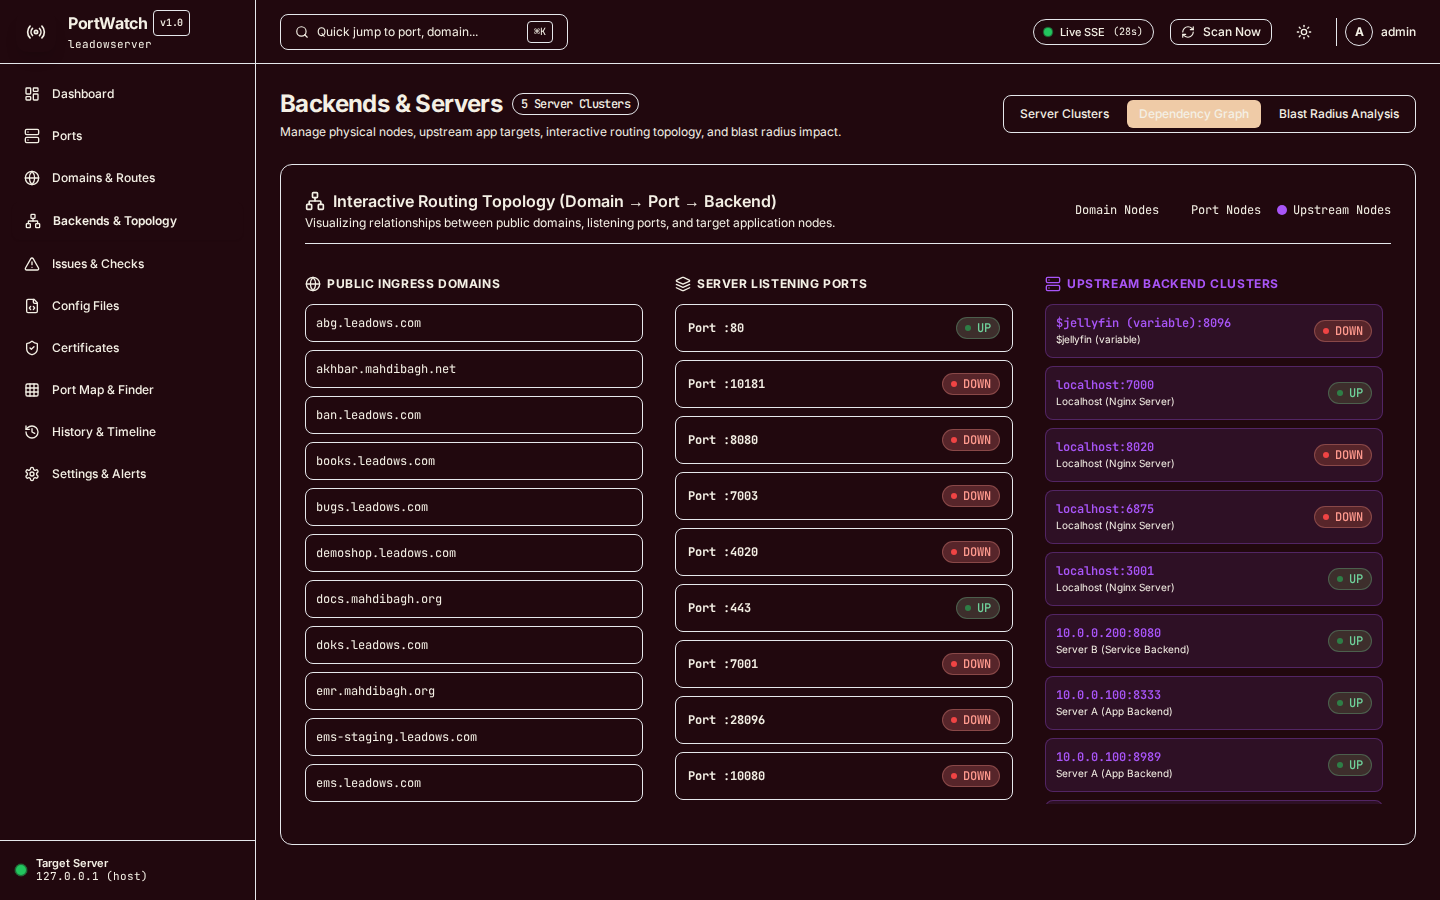
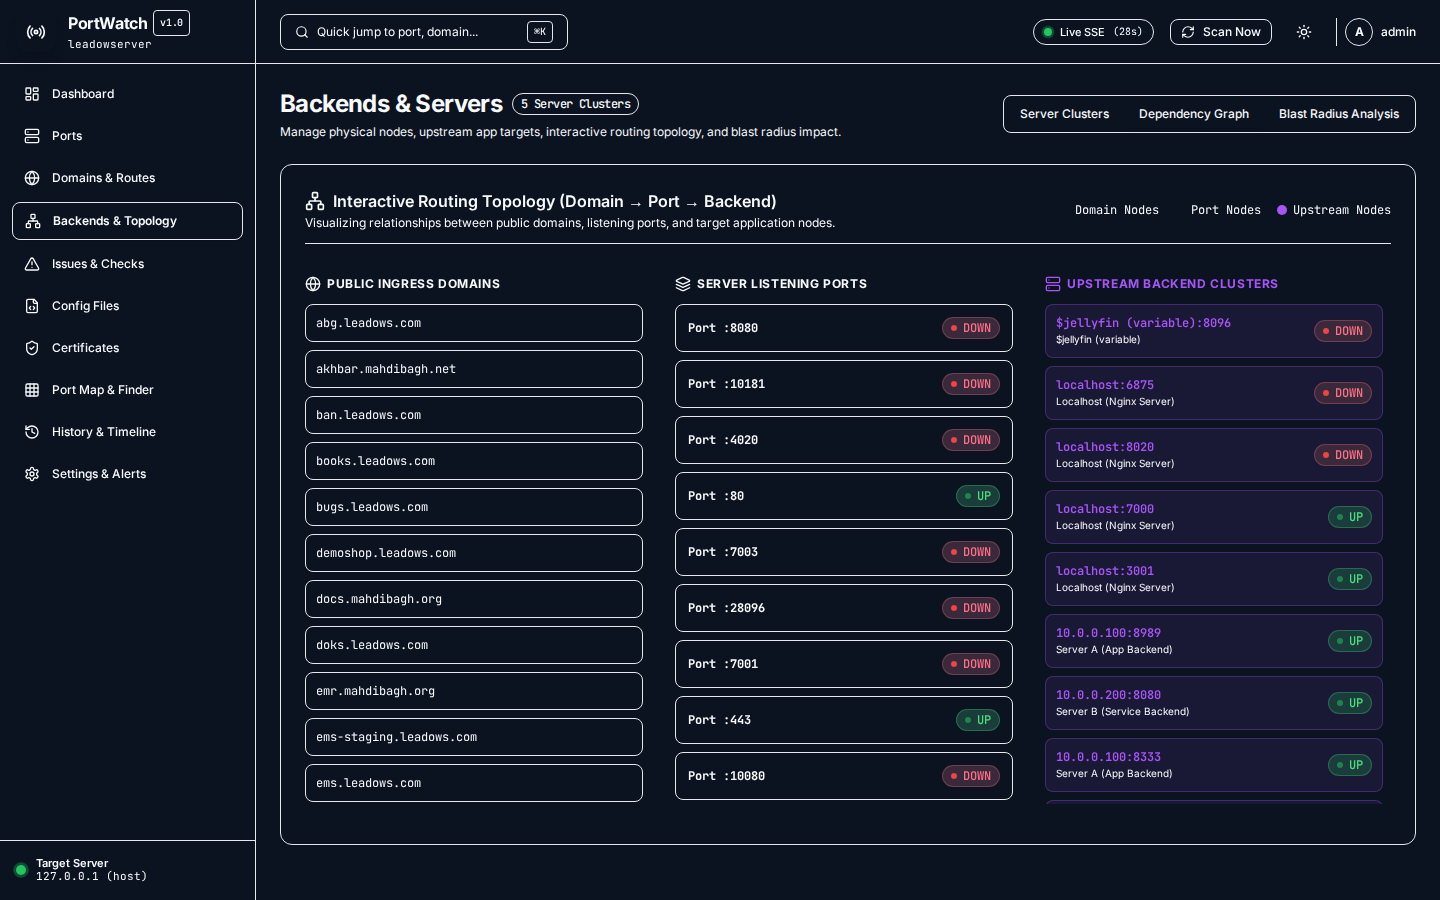
style(dark): restore original sleek dark theme palette with indigo and cyan accents

diff --git a/apps/web/src/index.css b/apps/web/src/index.css
@@ -51,46 +51,46 @@
 
   .dark {
     color-scheme: dark;
-    --bg: #1C1912;
-    --surface: #26221A;
-    --surface-2: #302B21;
-    --border: #5A5242;
-    --border-strong: #7D7460;
-    --text: #F4F0E5;
-    --text-muted: #B5AD99;
-    --primary: #8CC4B2;
-    --on-primary: #14201B;
-    --accent: #E8956A;
+    --bg: #0B1220;
+    --surface: #10182B;
+    --surface-2: #1E293B;
+    --border: #1E293B;
+    --border-strong: #64748B;
+    --text: #F8FAFC;
+    --text-muted: #94A3B8;
+    --primary: #818CF8;
+    --on-primary: #0B1220;
+    --accent: #38BDF8;
 
     /* Status colours */
-    --status-up: #5DBB85;
-    --status-down: #F08A7E;
-    --status-slow: #E3A94A;
-    --status-unknown: #A39B88;
-    --status-info: #86B8E0;
+    --status-up: #4ADE80;
+    --status-down: #FB7185;
+    --status-slow: #FBBF24;
+    --status-unknown: #94A3B8;
+    --status-info: #38BDF8;
 
     /* Route action colours */
-    --action-proxy: #8CC4B2;
-    --action-static: #86B8E0;
-    --action-redirect: #E3A94A;
-    --action-return: #C7A0D8;
-    --action-status: #E8956A;
+    --action-proxy: #818CF8;
+    --action-static: #38BDF8;
+    --action-redirect: #FBBF24;
+    --action-return: #C084FC;
+    --action-status: #FB7185;
 
     /* Issue priority colours */
-    --priority-high: #F08A7E;
-    --priority-medium: #E3A94A;
-    --priority-low: #86B8E0;
-    --priority-info: #A39B88;
+    --priority-high: #FB7185;
+    --priority-medium: #FBBF24;
+    --priority-low: #38BDF8;
+    --priority-info: #94A3B8;
 
     /* Chart series colours */
-    --chart-1: #8CC4B2;
-    --chart-2: #E8956A;
-    --chart-3: #86B8E0;
-    --chart-4: #E3A94A;
-    --chart-5: #C7A0D8;
-    --chart-6: #5DBB85;
-    --chart-7: #A39B88;
-    --chart-8: #F08A7E;
+    --chart-1: #818CF8;
+    --chart-2: #38BDF8;
+    --chart-3: #4ADE80;
+    --chart-4: #FBBF24;
+    --chart-5: #C084FC;
+    --chart-6: #FB7185;
+    --chart-7: #94A3B8;
+    --chart-8: #F472B6;
 
     --status-badge-alpha: 18%;
   }

diff --git a/scripts/check-contrast.ts b/scripts/check-contrast.ts
@@ -41,22 +41,22 @@ export const lightTokens: PaletteTokens = {
 };
 
 export const darkTokens: PaletteTokens = {
-  bg: '#1C1912',
-  surface: '#26221A',
-  surface2: '#302B21',
-  border: '#5A5242',
-  borderStrong: '#7D7460',
-  text: '#F4F0E5',
-  textMuted: '#B5AD99',
-  primary: '#8CC4B2',
-  onPrimary: '#14201B',
-  accent: '#E8956A',
+  bg: '#0B1220',
+  surface: '#10182B',
+  surface2: '#1E293B',
+  border: '#1E293B',
+  borderStrong: '#64748B',
+  text: '#F8FAFC',
+  textMuted: '#94A3B8',
+  primary: '#818CF8',
+  onPrimary: '#0B1220',
+  accent: '#38BDF8',
   status: {
-    up: '#5DBB85',
-    down: '#F08A7E',
-    slow: '#E3A94A',
-    unknown: '#A39B88',
-    info: '#86B8E0',
+    up: '#4ADE80',
+    down: '#FB7185',
+    slow: '#FBBF24',
+    unknown: '#94A3B8',
+    info: '#38BDF8',
   },
 };
 
